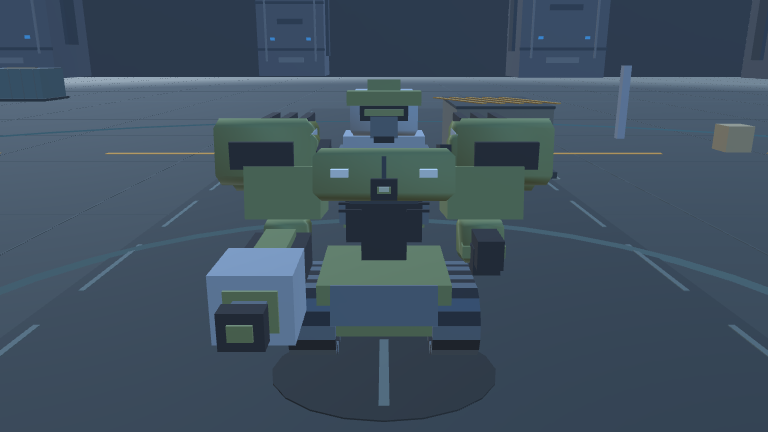
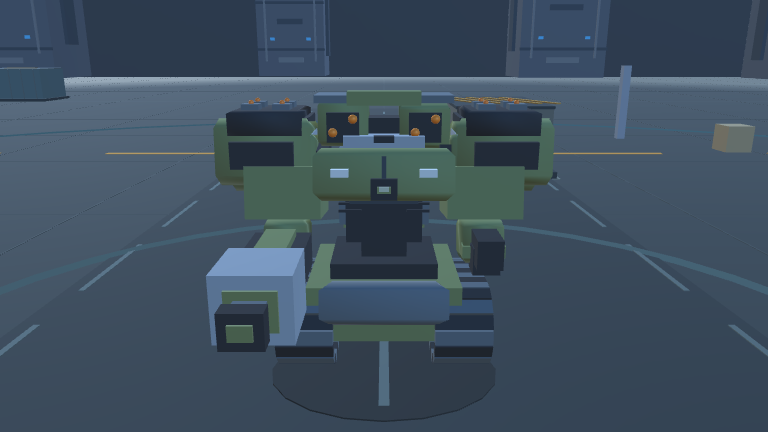
Improve four prototype robot silhouettes

Changed region(s): [[0.3438, 0.5417, 0.6562, 0.8426], [0.2812, 0.2106, 0.7188, 0.3611], [0.4688, 0.1806, 0.5312, 0.2106]]

diff --git a/Assets/Scripts/VoxArena.Robot.cs b/Assets/Scripts/VoxArena.Robot.cs
@@ -104,25 +104,50 @@ public sealed partial class VoxArena
         if(f.rightLeg!=null) f.rightLeg.gameObject.SetActive(false);
         bool spider=f.spec.name=="TARANTULA";
         f.quadrupedLegs=new Transform[4]; f.quadrupedKnees=new Transform[4]; f.quadrupedAnkles=new Transform[4];
+        // A wide, low chassis makes the four-legged silhouette read before its small details.
         Plate(spider?"Tarantula abdomen armor":"Hound ribcage armor",f.legsPart,
-            new Vector3(0,-.57f,-.08f),spider?new Vector3(1.08f,.36f,1.26f):new Vector3(.92f,.38f,1.48f),armor);
+            new Vector3(0,spider?-.40f:-.34f,spider?-.12f:-.06f),
+            spider?new Vector3(1.42f,.43f,1.50f):new Vector3(1.08f,.47f,1.72f),armor);
+        if(spider)
+        {
+            BeveledPlate("Tarantula front thorax",f.legsPart,new Vector3(0,-.20f,.48f),
+                new Vector3(.93f,.34f,.72f),edge,0,.14f,.72f);
+            BeveledPlate("Tarantula rear abdomen shell",f.legsPart,new Vector3(0,-.31f,-.48f),
+                new Vector3(1.12f,.37f,.72f),armor,0,.16f,.82f);
+            Plate("Tarantula dorsal seam",f.legsPart,new Vector3(0,-.095f,-.38f),
+                new Vector3(.055f,.025f,.60f),edge);
+            for(int side=-1;side<=1;side+=2)
+                for(int spot=0;spot<3;spot++)
+                    Shape(PrimitiveType.Sphere,"Tarantula dorsal sensor",f.legsPart,
+                        new Vector3(side*(.30f+spot*.18f),-.08f,-.53f+spot*.16f),
+                        Vector3.one*.10f,edge,true);
+        }
         for(int i=0;i<4;i++)
         {
             int side=(i%2==0)?-1:1; bool front=i<2;
-            float x=side*(front?(spider?.48f:.38f):(spider?.78f:.78f)), z=front?.48f:-.52f;
-            Transform hip=Module((spider?"Spider":"Hound")+" leg root "+i,f.legsPart,new Vector3(x,-.67f,z));
+            float x=side*(front?(spider?.62f:.46f):(spider?.82f:.48f)), z=front?.57f:-.68f;
+            Transform hip=Module((spider?"Spider":"Hound")+" leg root "+i,
+                f.legsPart,new Vector3(x,spider?-.51f:-.48f,z));
             f.quadrupedLegs[i]=hip;
-            Shape(PrimitiveType.Sphere,"Hip rotary joint",hip,Vector3.zero,Vector3.one*(spider?.25f:.30f),dark);
-            float upperLength=spider?.55f:.43f;
-            BeveledPlate("Upper leg armor",hip,new Vector3(side*(spider?.20f:.09f),-.20f,front?.08f:-.08f),
-                new Vector3(spider?.25f:.36f,upperLength,.30f),edge,0,.10f,.82f);
-            Transform knee=Module("Knee articulation",hip,new Vector3(side*(spider?.39f:.14f),-.43f,front?.13f:-.13f));
+            float upperLength=spider?.62f:.52f;
+            Shape(PrimitiveType.Sphere,"Hip rotary joint",hip,Vector3.zero,
+                Vector3.one*(spider?.23f:.25f),dark);
+            Transform upper=BeveledPlate("Upper leg armor",hip,
+                new Vector3(side*(spider?.30f:.12f),-.20f,front?.10f:-.10f),
+                new Vector3(spider?.28f:.30f,upperLength,spider?.34f:.35f),edge,0,.13f,.76f);
+            upper.localRotation=Quaternion.Euler(front?10f:-10f,0,side*(spider?34f:12f));
+            Transform knee=Module("Knee articulation",hip,
+                new Vector3(side*(spider?.51f:.16f),-.40f,front?.16f:-.16f));
             f.quadrupedKnees[i]=knee;
-            Shape(PrimitiveType.Sphere,"Knee joint",knee,Vector3.zero,Vector3.one*(spider?.19f:.22f),dark);
-            float lower=spider?.63f:.50f;
-            BeveledPlate("Lower leg armor",knee,new Vector3(side*(spider?.16f:.04f),-.25f,front?.06f:-.06f),
-                new Vector3(spider?.20f:.30f,lower,.24f),armor,0,.09f,.78f);
-            Transform ankle=Module("Ankle articulation",knee,new Vector3(side*(spider?.31f:.08f),-.50f,front?.08f:-.08f));
+            Shape(PrimitiveType.Sphere,"Knee joint",knee,Vector3.zero,
+                Vector3.one*(spider?.20f:.19f),dark);
+            float lower=spider?.72f:.61f;
+            Transform lowerPlate=BeveledPlate("Lower leg armor",knee,
+                new Vector3(side*(spider?.20f:.04f),-.28f,front?.08f:-.08f),
+                new Vector3(spider?.23f:.25f,lower,spider?.27f:.28f),armor,0,.12f,.74f);
+            lowerPlate.localRotation=Quaternion.Euler(front?-8f:8f,0,side*(spider?20f:4f));
+            Transform ankle=Module("Ankle articulation",knee,
+                new Vector3(side*(spider?.36f:.08f),-.55f,front?.09f:-.09f));
             f.quadrupedAnkles[i]=ankle;
             Plate(spider?"Tarsal foot":"Padded paw",ankle,new Vector3(0,-.035f,.08f),
                 spider?new Vector3(.28f,.14f,.38f):new Vector3(.38f,.20f,.45f),dark);
@@ -135,22 +160,46 @@ public sealed partial class VoxArena
             foreach(string name in new[]{"Helmet","Helmet crown","Face mask","Sensor housing","Visor","Sensor fin"})
                 for(int i=0;i<f.headPart.childCount;i++)
                     if(f.headPart.GetChild(i).name==name) f.headPart.GetChild(i).gameObject.SetActive(false);
-            BeveledPlate("Hound compact skull",f.headPart,Vector3.zero,new Vector3(.54f,.39f,.56f),armor,0,.13f,.82f);
-            BeveledPlate("Hound muzzle",f.headPart,new Vector3(0,-.09f,.34f),new Vector3(.34f,.20f,.48f),armor,0,.07f,.78f);
-            Plate("Hound nose",f.headPart,new Vector3(0,-.08f,.59f),new Vector3(.16f,.10f,.09f),dark);
+            BeveledPlate("Hound compact skull",f.headPart,Vector3.zero,
+                new Vector3(.63f,.43f,.64f),armor,0,.15f,.80f);
+            BeveledPlate("Hound cheek armor",f.headPart,new Vector3(0,-.13f,.12f),
+                new Vector3(.66f,.25f,.49f),edge,0,.10f,.83f);
+            BeveledPlate("Hound muzzle",f.headPart,new Vector3(0,-.10f,.51f),
+                new Vector3(.43f,.25f,.83f),armor,0,.11f,.65f);
+            Plate("Hound nose bridge",f.headPart,new Vector3(0,-.025f,.84f),
+                new Vector3(.24f,.12f,.24f),edge,-8);
+            Plate("Hound nose",f.headPart,new Vector3(0,-.065f,.98f),
+                new Vector3(.22f,.15f,.11f),dark);
+            Plate("Hound jaw",f.headPart,new Vector3(0,-.25f,.54f),
+                new Vector3(.37f,.09f,.62f),dark,-4);
+            Plate("Hound jaw guard",f.headPart,new Vector3(0,-.20f,.76f),
+                new Vector3(.34f,.075f,.18f),armor);
+            for(int side=-1;side<=1;side+=2)
+                Shape(PrimitiveType.Cube,"Hound muzzle vent",f.headPart,
+                    new Vector3(side*.09f,-.08f,.84f),new Vector3(.035f,.05f,.035f),edge,true);
             for(int side=-1;side<=1;side+=2)
             {
-                Shape(PrimitiveType.Cube,"Hound optical eye",f.headPart,new Vector3(side*.18f,.04f,.285f),
-                    new Vector3(.075f,.07f,.04f),new Color(1,.72f,.25f),true);
-                BeveledPlate("Hound ear",f.headPart,new Vector3(side*.22f,.28f,-.03f),
-                    new Vector3(.15f,.34f,.16f),armor,side*-12,.11f,.70f);
+                Shape(PrimitiveType.Sphere,"Hound optical eye",f.headPart,new Vector3(side*.21f,.045f,.35f),
+                    new Vector3(.105f,.10f,.07f),new Color(1,.72f,.25f),true);
+                BeveledPlate("Hound brow",f.headPart,new Vector3(side*.20f,.14f,.35f),
+                    new Vector3(.24f,.075f,.15f),edge,side*8,.035f,.72f);
+                Transform ear=BeveledPlate("Hound upright ear",f.headPart,
+                    new Vector3(side*.24f,.32f,-.07f),new Vector3(.18f,.42f,.20f),armor,
+                    side*-10,.12f,.66f);
+                ear.localRotation=Quaternion.Euler(-12,0,side*-12);
+                Shape(PrimitiveType.Sphere,"Hound shoulder bearing",f.legsPart,
+                    new Vector3(side*.43f,-.37f,.46f),Vector3.one*.24f,edge);
+                Shape(PrimitiveType.Sphere,"Hound hip bearing",f.legsPart,
+                    new Vector3(side*.43f,-.38f,-.53f),Vector3.one*.23f,edge);
             }
-            BeveledPlate("Hound neck bridge",f.legsPart,new Vector3(0,-.24f,.53f),
-                new Vector3(.46f,.25f,.55f),edge,0,.08f,.82f);
-            BeveledPlate("Hound tail root",f.legsPart,new Vector3(0,-.34f,-.77f),
-                new Vector3(.20f,.20f,.34f),edge,18,.07f,.78f);
-            BeveledPlate("Hound tail tip",f.legsPart,new Vector3(0,-.16f,-1.00f),
-                new Vector3(.14f,.18f,.24f),armor,28,.06f,.70f);
+            BeveledPlate("Hound neck bridge",f.legsPart,new Vector3(0,-.27f,.59f),
+                new Vector3(.52f,.32f,.60f),edge,-12,.11f,.78f);
+            BeveledPlate("Hound tail root",f.legsPart,new Vector3(0,-.17f,-.86f),
+                new Vector3(.22f,.22f,.43f),edge,26,.08f,.78f);
+            BeveledPlate("Hound tail mid",f.legsPart,new Vector3(0,.01f,-1.12f),
+                new Vector3(.18f,.19f,.34f),armor,35,.07f,.72f);
+            BeveledPlate("Hound tail tip",f.legsPart,new Vector3(0,.18f,-1.32f),
+                new Vector3(.15f,.18f,.25f),edge,42,.06f,.68f);
         }
         else
         {
@@ -160,8 +209,9 @@ public sealed partial class VoxArena
             BeveledPlate("Tarantula sensor carapace",f.headPart,Vector3.zero,new Vector3(.58f,.28f,.48f),armor,0,.10f,.78f);
             for(int side=-1;side<=1;side+=2)
                 for(int row=0;row<2;row++)
-                    Shape(PrimitiveType.Cube,"Tarantula optic array",f.headPart,
-                        new Vector3(side*(.16f+row*.075f),-.02f-row*.075f,.245f),new Vector3(.07f,.06f,.035f),edge,true);
+                    Shape(PrimitiveType.Sphere,"Tarantula optic array",f.headPart,
+                        new Vector3(side*(.16f+row*.075f),-.02f-row*.075f,.245f),
+                        Vector3.one*(row==0?.085f:.065f),new Color(1,.18f,.38f),true);
         }
         // These archetypes are chassis-first quadrupeds; the inherited biped
         // chest and shoulder rig obscured the four-leg silhouette. Keep their
@@ -174,16 +224,22 @@ public sealed partial class VoxArena
         f.pelvisPart.gameObject.SetActive(false);
         if(f.leftLeg!=null) f.leftLeg.gameObject.SetActive(false);
         if(f.rightLeg!=null) f.rightLeg.gameObject.SetActive(false);
-        Plate("BASTION low tank hull",f.legsPart,new Vector3(0,-.68f,-.02f),new Vector3(1.42f,.58f,1.36f),armor);
-        Plate("Tank front glacis",f.legsPart,new Vector3(0,-.60f,.66f),new Vector3(1.12f,.42f,.18f),edge,-12);
+        Plate("BASTION low tank hull",f.legsPart,new Vector3(0,-.69f,-.02f),
+            new Vector3(1.62f,.60f,1.50f),armor);
+        BeveledPlate("Tank front glacis",f.legsPart,new Vector3(0,-.57f,.68f),
+            new Vector3(1.34f,.42f,.28f),edge,-12,.15f,.82f);
+        Plate("Tank upper deck",f.legsPart,new Vector3(0,-.32f,-.04f),
+            new Vector3(1.15f,.20f,1.03f),dark);
+        Plate("Tank armor prow",f.legsPart,new Vector3(0,-.47f,.68f),
+            new Vector3(.76f,.10f,.15f),armor,-12);
         f.treadLinks=new Transform[2][]; f.treadPerimeter=2.8f;
-        float radius=.34f, halfStraight=.38f;
+        float radius=.39f, halfStraight=.43f;
         f.treadPerimeter=4f*halfStraight+2f*Mathf.PI*radius;
         for(int side=0;side<2;side++)
         {
-            float x=side==0?-.76f:.76f;
-            Transform track=Module("Continuous tank track "+side,f.legsPart,new Vector3(x,-.89f,0));
-            float width=.50f;
+            float x=side==0?-.83f:.83f;
+            Transform track=Module("Continuous tank track "+side,f.legsPart,new Vector3(x,-.91f,0));
+            float width=.60f;
             // Individual shoes form the visible continuous run; omit the solid
             // outer sidewall that hid the links in the first capture.
             f.treadLinks[side]=new Transform[28];
@@ -193,12 +249,46 @@ public sealed partial class VoxArena
                     new Vector3(width,.105f,.15f),i%2==0?edge:dark);
                 f.treadLinks[side][i]=link;
             }
-            for(int wheel=0;wheel<3;wheel++)
+            for(int wheel=0;wheel<4;wheel++)
             {
-                float z=-.40f+wheel*.40f;
+                float z=-.48f+wheel*.32f;
                 Transform roller=Shape(PrimitiveType.Cylinder,"Road roller",track,new Vector3(0,-.06f,z),
-                    new Vector3(.26f,.13f,.26f),edge);
+                    new Vector3(.27f,.14f,.27f),edge);
                 roller.localRotation=Quaternion.Euler(0,0,90);
+            }
+        }
+        // Twin elevated command pods replace the conventional helmet silhouette.
+        foreach(Transform child in f.headPart) child.gameObject.SetActive(false);
+        for(int side=-1;side<=1;side+=2)
+        {
+            BeveledPlate("Bastion square sensor turret",f.corePart,
+                new Vector3(side*.43f,1.22f,-.07f),new Vector3(.53f,.48f,.49f),armor,
+                side*-5,.12f,.86f);
+            Plate("Bastion sensor grille",f.corePart,new Vector3(side*.43f,1.20f,.205f),
+                new Vector3(.34f,.31f,.055f),dark);
+            for(int lens=0;lens<2;lens++)
+                Shape(PrimitiveType.Sphere,"Bastion amber optic",f.corePart,
+                    new Vector3(side*.43f+(lens==0?-.105f:.105f),1.22f+(lens==0?.07f:-.07f),.245f),
+                    Vector3.one*.095f,new Color(1,.48f,.08f),true);
+            Plate("Bastion pod crown",f.corePart,new Vector3(side*.43f,1.49f,-.07f),
+                new Vector3(.60f,.08f,.54f),edge);
+        }
+        Plate("Bastion turret bridge",f.corePart,new Vector3(0,1.17f,-.10f),
+            new Vector3(.34f,.23f,.34f),dark);
+        // Paired shoulder missile trays echo the heavy twin-weapon concept art.
+        for(int side=-1;side<=1;side+=2)
+        {
+            Transform arm=side<0?f.leftArm:f.rightArm;
+            BeveledPlate("Bastion shoulder missile tray",arm,
+                new Vector3(side*.18f,.50f,-.03f),new Vector3(.76f,.29f,.82f),dark,0,.09f,.85f);
+            for(int cell=0;cell<4;cell++)
+            {
+                float x=(cell%2==0?-.16f:.16f), z=cell<2?.18f:-.15f;
+                Plate("Bastion missile cell",arm,new Vector3(side*.18f+x,.67f,z),
+                    new Vector3(.18f,.07f,.18f),edge);
+                Shape(PrimitiveType.Sphere,"Bastion missile status lamp",arm,
+                    new Vector3(side*.18f+x,.715f,z),Vector3.one*.055f,
+                    new Color(1,.45f,.10f),true);
             }
         }
         AnimateTreads(f,0f);
@@ -225,7 +315,7 @@ public sealed partial class VoxArena
         for(int side=0;side<f.treadLinks.Length;side++)
             for(int i=0;i<f.treadLinks[side].Length;i++)
                 PlaceTreadLink(f.treadLinks[side][i],f.treadPhase+i*f.treadPerimeter/f.treadLinks[side].Length,
-                    f.treadPerimeter,0,.34f,.38f);
+                    f.treadPerimeter,0,.39f,.43f);
     }
     void BuildRobot(Fighter f)
     {
@@ -269,6 +359,15 @@ public sealed partial class VoxArena
         Plate("Face mask",f.headPart,new Vector3(0,-.12f,.29f),new Vector3(kestrelSd?.39f:.28f,.22f,.12f),edge);
         Plate("Sensor housing",f.headPart,new Vector3(0,.02f,.30f),new Vector3(kestrelSd?.62f:.49f,kestrelSd?.17f:.15f,.08f),dark);
         Shape(PrimitiveType.Cube,"Visor",f.headPart,new Vector3(0,.03f,.35f),new Vector3(f.frameIndex==5?.16f:kestrelSd?.52f:.40f,kestrelSd?.075f:.065f,.025f),armor,true);
+        if(f.spec.mobility==MobilityKind.Runner)
+            for(int side=-1;side<=1;side+=2)
+            {
+                Shape(PrimitiveType.Sphere,"Wisp cyan optical lens",f.headPart,
+                    new Vector3(side*.145f,.025f,.385f),new Vector3(.10f,.085f,.06f),
+                    new Color(.12f,.85f,1f),true);
+                Plate("Wisp lower face guard",f.headPart,
+                    new Vector3(side*.12f,-.16f,.35f),new Vector3(.18f,.08f,.06f),edge,-8);
+            }
         if(f.frameIndex==5) Plate("Range finder",f.headPart,new Vector3(.31f,.1f,.20f),new Vector3(.17f,.19f,.50f),dark);
         if(!heavy)
             for(int side=-1;side<=1;side+=2)
@@ -416,10 +515,25 @@ public sealed partial class VoxArena
         }
         if(f.spec.mobility==MobilityKind.Runner)
         {
-            f.headPart.localScale=Vector3.one*1.85f;
-            f.headPart.localPosition=new Vector3(0,1.20f,.02f);
-            f.armsPart.localScale=new Vector3(1f,.68f,1f);
-            f.legsPart.localScale=new Vector3(1f,.60f,1f);
+            // Push WISP toward a true super-deformed read: head dominates, torso
+            // and limbs stay compact, and broad feet keep the tiny frame grounded.
+            f.headPart.localScale=Vector3.one*2.02f;
+            f.headPart.localPosition=new Vector3(0,1.16f,.02f);
+            f.corePart.localScale=new Vector3(.91f,.90f,.92f);
+            f.armsPart.localScale=new Vector3(.88f,.74f,.88f);
+            f.legsPart.localScale=new Vector3(1f,.50f,1f);
+            BeveledPlate("Wisp cheek guard L",f.headPart,new Vector3(-.32f,-.12f,.24f),
+                new Vector3(.20f,.20f,.20f),armor,0,.06f,.78f);
+            BeveledPlate("Wisp cheek guard R",f.headPart,new Vector3(.32f,-.12f,.24f),
+                new Vector3(.20f,.20f,.20f),armor,0,.06f,.78f);
+            for(int side=-1;side<=1;side+=2)
+            {
+                Transform antenna=Plate("Wisp swept antenna",f.headPart,
+                    new Vector3(side*.30f,.37f,-.04f),new Vector3(.075f,.38f,.10f),edge);
+                antenna.localRotation=Quaternion.Euler(0,0,side*-24f);
+                Shape(PrimitiveType.Sphere,"Wisp antenna lamp",f.headPart,
+                    new Vector3(side*.38f,.53f,-.04f),Vector3.one*.09f,armor,true);
+            }
         }
         else if(f.spec.mobility==MobilityKind.Tank) BuildTankTracks(f,armor,dark,edge);
         else if(f.spec.mobility==MobilityKind.Quadruped)
@@ -429,9 +543,16 @@ public sealed partial class VoxArena
             f.corePart.localScale=new Vector3(spider?.90f:.88f,spider?.72f:.78f,.88f);
             f.armsPart.localPosition=new Vector3(0,-.22f,0);
             f.armsPart.localScale=new Vector3(.82f,.68f,.82f);
-            f.headPart.localPosition=new Vector3(0,spider?.04f:-.04f,spider?.65f:.84f);
-            f.headPart.localScale=Vector3.one*(spider?.88f:1f);
+            f.headPart.localPosition=new Vector3(0,spider?.04f:-.04f,spider?.65f:1.00f);
+            f.headPart.localScale=spider?Vector3.one*.78f:new Vector3(1.12f,1.10f,1.34f);
+            f.legsPart.localScale=new Vector3(spider?1.12f:1.08f,1f,spider?1.05f:1.08f);
             BuildFourLegs(f,armor,dark,edge);
+        }
+        else if(f.spec.mobility==MobilityKind.Tank)
+        {
+            // A heavier, wider shoulder line balances the new true track base.
+            f.corePart.localScale=new Vector3(1.08f,1.02f,1.04f);
+            f.armsPart.localScale=new Vector3(1.05f,.96f,1.04f);
         }
         f.weaponPart=Module("Right weapon socket",f.rightArm,new Vector3(0,-.75f,.70f));
         if(f.spec.mobility==MobilityKind.Quadruped)

diff --git a/Assets/Scripts/VoxArena.Smoke.cs b/Assets/Scripts/VoxArena.Smoke.cs
@@ -184,10 +184,14 @@ public sealed partial class VoxArena
             CraftCatalog.Selectable[2].name=="TARANTULA" && CraftCatalog.Selectable[3].name=="HOUND",
             "hangar roster is limited to four current prototypes");
         TestSetupSelectable(0,1);
-        Check(player.headPart.localScale.x>1.3f && player.legsPart.localScale.y<.8f,
-            "WISP has oversized head and shortened limb silhouette");
+        Check(player.headPart.localScale.x>1.8f && player.legsPart.localScale.y<.6f &&
+            player.corePart.localScale.x<1f && player.headPart.localScale.x/player.corePart.localScale.x>2f,
+            "WISP has oversized head, compact torso and short SD limbs");
         Check(enemy.treadLinks!=null && enemy.treadLinks.Length==2 && enemy.treadLinks[0].Length>=20,
             "BASTION has two continuous animated track runs");
+        Check(enemy.corePart.Find("Bastion square sensor turret")!=null &&
+            enemy.leftArm.Find("Bastion shoulder missile tray")!=null && enemy.pelvisPart.gameObject.activeSelf==false,
+            "BASTION reads as a tracked siege chassis with twin command pods and missile trays");
         Vector3 firstTread=enemy.treadLinks[0][0].localPosition;
         enemy.velocity=Vector3.forward*4f; AnimateTreads(enemy,.1f);
         Check((enemy.treadLinks[0][0].localPosition-firstTread).sqrMagnitude>.01f,
@@ -198,8 +202,16 @@ public sealed partial class VoxArena
             "TARANTULA four-leg rig and raised jump ceiling");
         Check(player.armsPart!=null&&!player.armsPart.gameObject.activeSelf&&player.weaponPart.parent==player.legsPart&&player.gun.gameObject.activeInHierarchy,
             "TARANTULA keeps its gun on a visible chassis mount");
+        Check(player.legsPart.Find("Tarantula rear abdomen shell")!=null &&
+            player.headPart.Find("Tarantula optic array")!=null &&
+            player.quadrupedLegs[0].Find("Upper leg armor").localRotation!=Quaternion.identity,
+            "TARANTULA has a low spider carapace, sensor cluster and splayed limbs");
         Check(enemy.quadrupedLegs!=null && enemy.quadrupedLegs.Length==4 && enemy.spec.name=="HOUND",
             "HOUND canine four-leg rig");
+        Check(enemy.headPart.Find("Hound muzzle")!=null && enemy.headPart.Find("Hound upright ear")!=null &&
+            enemy.legsPart.Find("Hound tail tip")!=null &&
+            enemy.quadrupedLegs[0].Find("Knee articulation/Ankle articulation/Padded paw")!=null,
+            "HOUND has canine muzzle, upright ears, segmented tail and paws");
         Vector3 jumpStart=new Vector3(0,FighterGroundY,0);
         bool clearJumpPath=!ObstacleOnSegment(jumpStart,jumpStart+Vector3.up*9f,player.Radius,out _);
         for(int radius=10;radius<=120&&!clearJumpPath;radius+=10)

diff --git a/PLAN.md b/PLAN.md
@@ -8,13 +8,12 @@
 - 프로듀서 제공 컨셉 세 장을 `Docs/VisualReferences/`에 보관했다. 이미지는 최종 목표이며 현재 빌드 화면이 아니다.
 - WISP는 머리를 크게 하고 팔다리 비율을 줄인다. BASTION은 바퀴/정강이 장식이 아닌 움직이는 연속 궤도 하체로 만든다. TARANTULA와 HOUND는 전용 관절 4족 리그를 갖는다.
 - TARANTULA 점프 상승 한계와 도약 힘을 높이고, 기체별 움직임/점프 개념을 참고 시트에 맞춘다.
-- 이번 단계는 기본 실루엣과 구조 검증이다. 표면 장식이나 최종 디자인 확정은 제작자 확인 전 진행하지 않는다.
+- 이번 2차 모델링 반복에서는 WISP의 짧아진 몸과 팔다리, 눈/안테나, BASTION의 이중 센서 포드·미사일 트레이·확장 궤도, TARANTULA의 낮은 분할 갑각·벌어진 다리, HOUND의 길어진 몸통·주둥이·귀·발·꼬리를 추가했다.
 - 기존 무기와 전투 입력은 그대로 둔다. 무기/이동 컨셉 시트는 후속 참조 자료일 뿐 이 변경에서 규칙을 바꾸지 않는다.
-- 기본 실루엣 구현: WISP 큰 머리/짧은 팔다리, BASTION 움직이는 링크 궤도, TARANTULA 관절 4족/충전 점프, HOUND 낮은 개형 4족/주둥이/귀/꼬리.
-- Windows 빌드 통과: Unity 6000.6.7f1, `VOXSKY_BUILD_PASS 158047418 bytes` (최신 work의 탱크 헤딩 수정 포함).
-- 실행 파일 스모크 검사 214/214 통과. 기체 구조, 궤도 링크 움직임, TARANTULA 점프 상승, 기존 전투/조작 회귀를 포함한다.
-- Unity 실행 화면에서 16장(기체 4종 × 정면/오른쪽/후면/왼쪽)을 `Docs/VisualReferences/Implemented/`에 캡처했다.
-- 실제 비주얼 비교 결과 아직 컨셉 일치도는 낮다. 현재는 기능하는 복셀 실루엣 프로토타입이며, 고품질 최종 모델로 승인하지 않는다. 다음 작업은 제작자와 네 실루엣을 캡처 옆에서 검토한 뒤 비율을 승인받고, 그 후 재질/장식으로 진행한다.
+- Unity 6000.6.7f1 Windows 빌드 통과: `VOXSKY_BUILD_PASS 158053256 bytes`.
+- 실행 파일 스모크 검사 217/217 통과. 모델 구조, 가동 궤도, TARANTULA 점프, 이동·무기 회귀를 포함한다.
+- 최신 빌드 화면 16장(기체 4종 × 정면/오른쪽/후면/왼쪽)을 `Docs/VisualReferences/Implemented/`에 캡처했다.
+- 컨셉 원화와 형태 구조는 가까워졌지만 디테일, 재질, 조명과 전체 유사도는 아직 부족하다. 현재는 복셀 조형 반복 단계이며 최종 모델 승인은 아니다. 다음에는 이 캡처를 기준으로 제작자가 원하는 차이를 피드백받아 계속 수정한다.
 
 ## 2026-11-02 플레이어 선택 범위와 착지 경직
 

diff --git a/Docs/VisualReferences/README.md b/Docs/VisualReferences/README.md
@@ -10,9 +10,14 @@ These reference images define the visual direction; none is a screenshot of the 
 
 ## Current prototype status
 
-Unity models are procedural block meshes, so they cannot reproduce the illustration's exact surface finish. This pass focuses on silhouette and structure before surface detailing: WISP proportions, a moving linked-track BASTION base, four-joint leg rigs for TARANTULA and HOUND, and each frame's jump ceiling. Existing combat, hit volumes, and controls remain shared.
+Unity models are procedural block meshes, so they cannot reproduce the illustration's exact surface finish. The 2026-11-02 modeling pass reshaped the playable silhouettes and kept combat, hit volumes, and controls shared:
 
-The comparison set is `Implemented/`: 16 actual Unity-build screenshots, four directions per selectable robot. Review them beside the concept before evaluating proportions. Runtime smoke checks confirm the BASTION links scroll under forward movement and TARANTULA reaches a higher jump arc. These are prototype checkpoints, not final art approval.
+- WISP: larger head, compact torso, shorter legs, cyan paired lenses, cheek plates and swept antennas.
+- BASTION: two wider moving track loops with four rollers per side, low armored hull, twin amber sensor pods, and paired shoulder missile trays.
+- TARANTULA: lower split carapace, red multi-eye sensor cluster, and four independently animated outward-splayed articulated legs.
+- HOUND: longer horizontal ribcage, larger forward muzzle and nose, upright ears, visible shoulder/hip bearings, four paws, and a segmented tail.
+
+The comparison set is `Implemented/`: 16 actual Windows-build screenshots, four directions per selectable robot, captured after this pass. Runtime smoke checks cover the modeled features and the existing movement/weapon loop. The latest Windows build completed successfully and the game-player smoke suite passed 217 checks. The shapes remain deliberately voxel-procedural and the official visual target is still not matched in material finish or fine detail; these are intermediate models, not final art approval.
 
 - WISP: `Implemented/01-wisp-front.png` and the matching `right`, `rear`, and `left` files.
 - BASTION: `Implemented/02-bastion-front.png` and the matching four views.
